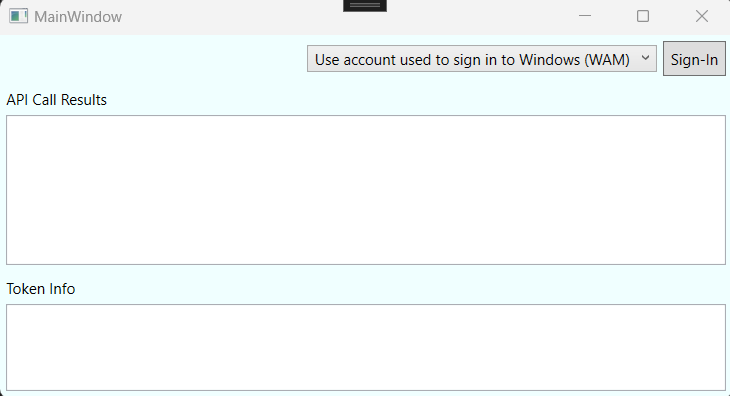
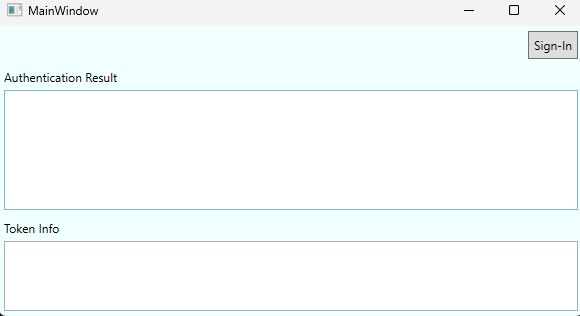
add screenshots

diff --git a/1-Authentication/5-sign-in-dotnet-wpf/README.md b/1-Authentication/5-sign-in-dotnet-wpf/README.md
@@ -156,8 +156,8 @@ From your shell or command line, execute the following commands:
 
 ## Explore the sample
 
-* After you launch the sample you should see a window with a `Sign-In` button and a combo-bo showing the options:
-
+* After you launch the sample you should see a window with a `Sign-In` button. Click the `Sign-In` button.
+  
 ![SignIn](./ReadmeFiles/SignInScreen.png)
 
 * After signing in you, the user should see a screen displaying that they have successfully signed-in and basic information about their account stored in the retrieved token.
